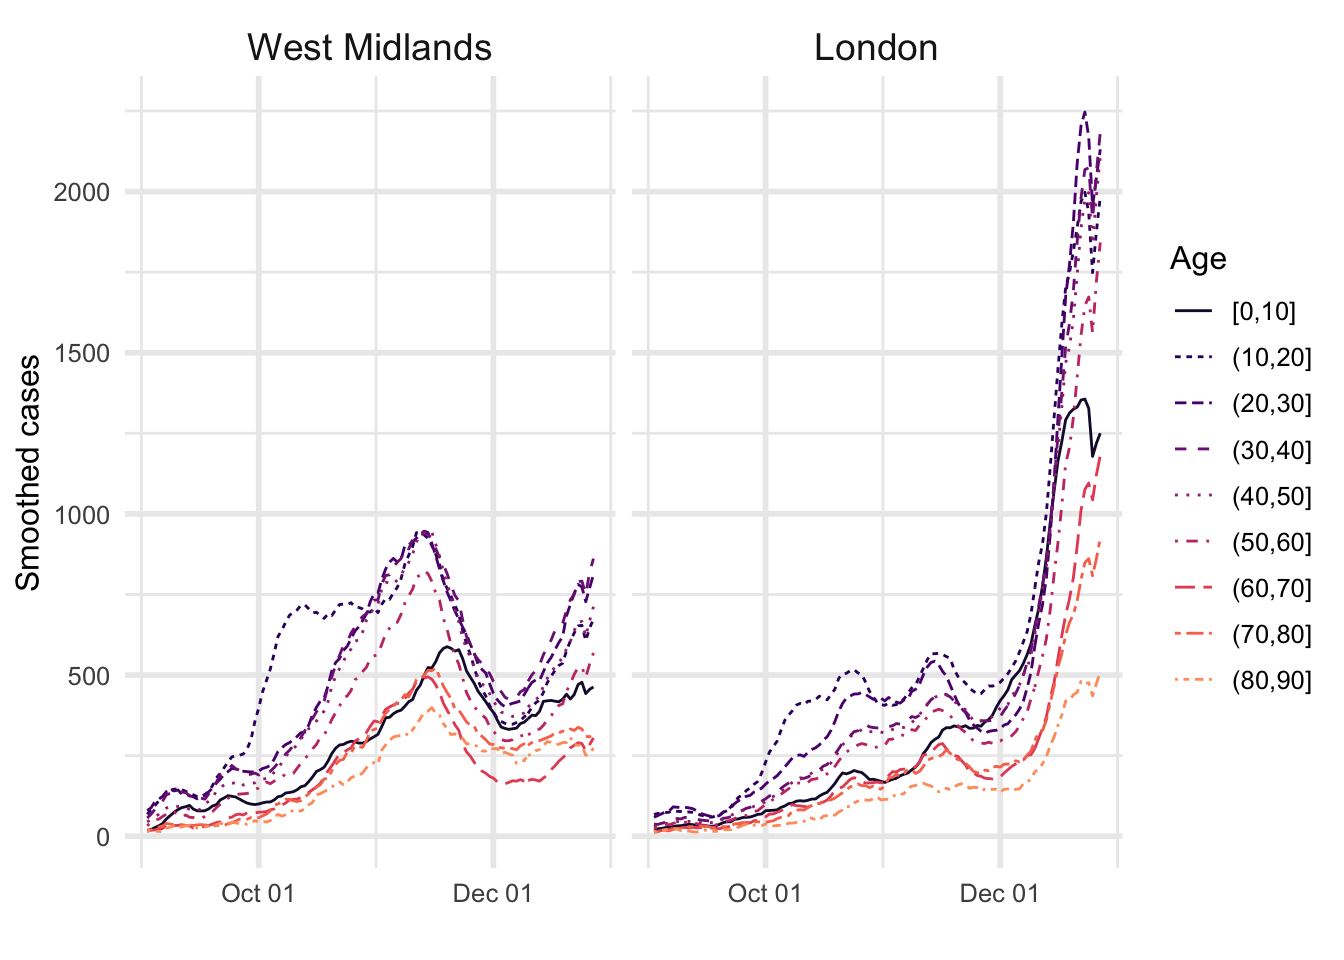
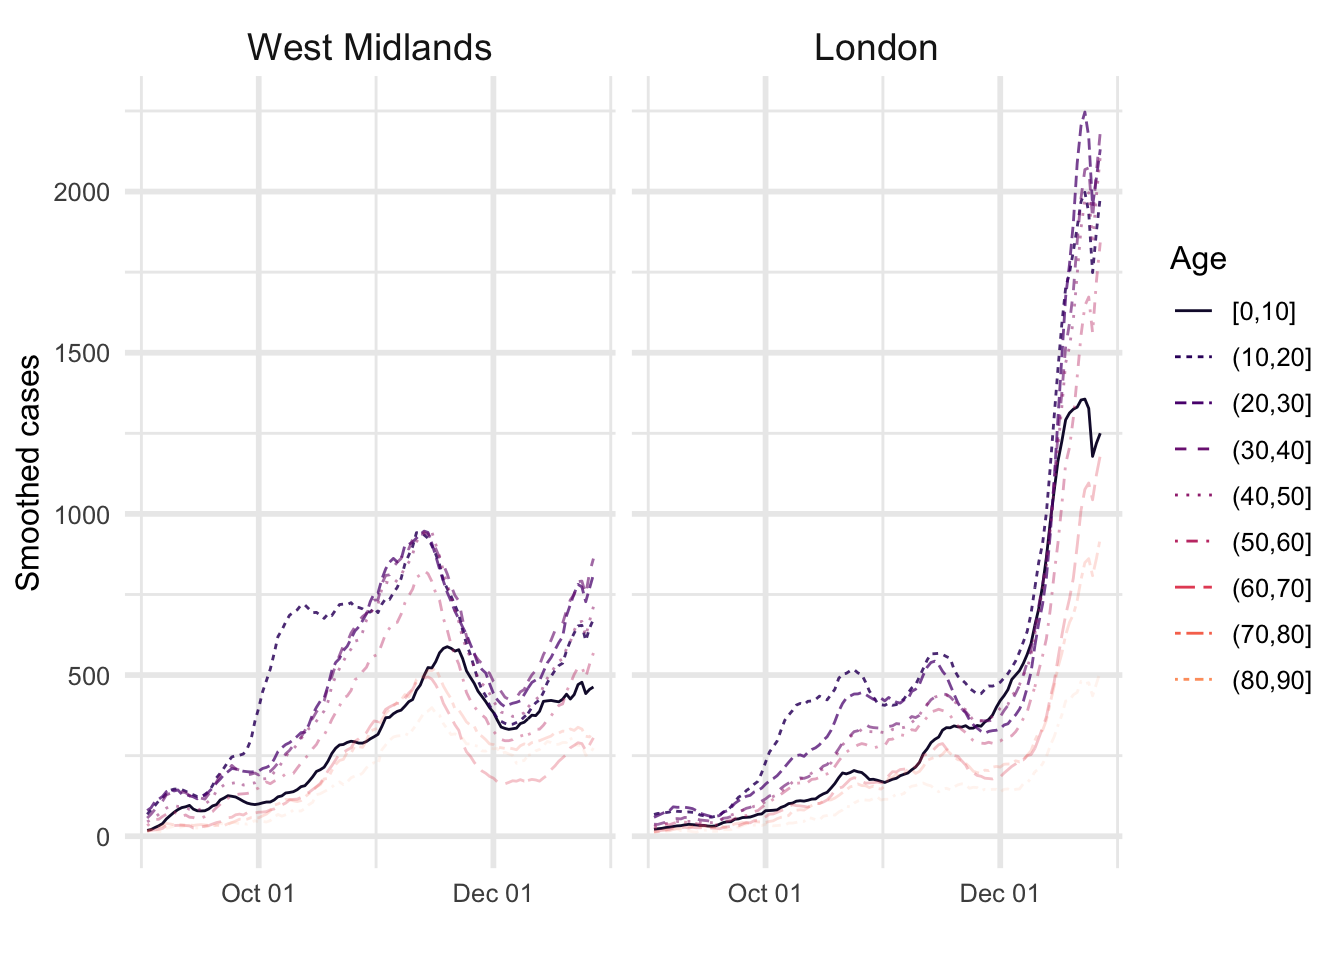
using alpha to help with colorblindness

diff --git a/_posts/2021-01-01-did-the-new-variant-of-covid-spread-through-schools/did-the-new-variant-of-covid-spread-through-schools.html b/_posts/2021-01-01-did-the-new-variant-of-covid-spread-through-schools/did-the-new-variant-of-covid-spread-through-schools.html
@@ -1612,55 +1612,52 @@ Note that this graph is an example of <a href="https://en.wikipedia.org/wiki/Eco
 </div>
 <p>For case data by age and region:</p>
 <div class="layout-chunk" data-layout="l-body">
-<div class="sourceCode">
-<pre><code><span class='va'>covid_specimens</span> <span class='op'>&lt;-</span> <span class='fu'>read_csv</span><span class='op'>(</span><span class='st'>"download the giant file and put it here"</span><span class='op'>)</span>
-<span class='va'>covid_spec_age</span> <span class='op'>&lt;-</span> <span class='va'>covid_specimens</span> <span class='op'>%&gt;%</span>
-  <span class='fu'><a href='https://rdrr.io/r/stats/filter.html'>filter</a></span><span class='op'>(</span><span class='va'>areaType</span> <span class='op'>%in%</span> <span class='fu'><a href='https://rdrr.io/r/base/c.html'>c</a></span><span class='op'>(</span><span class='st'>"region"</span>, <span class='st'>"utla"</span><span class='op'>)</span>,
-         <span class='va'>date</span> <span class='op'>&gt;</span> <span class='st'>"2020-09-01"</span>,
-         <span class='va'>age</span> <span class='op'>%in%</span>  <span class='fu'><a href='https://rdrr.io/r/base/c.html'>c</a></span><span class='op'>(</span>
-           <span class='st'>"0_4"</span>,
-           <span class='st'>"5_9"</span>,
-           <span class='st'>"10_14"</span>,
-           <span class='st'>"15_19"</span>,
-           <span class='st'>"20_24"</span>,
-           <span class='st'>"25_29"</span>,
-           <span class='st'>"30_34"</span>,
-           <span class='st'>"35_39"</span>,
-           <span class='st'>"40_44"</span>,
-           <span class='st'>"45_49"</span>,
-           <span class='st'>"50_54"</span>,
-           <span class='st'>"55_59"</span>,
-           <span class='st'>"60_64"</span>,
-           <span class='st'>"65_69"</span>,
-           <span class='st'>"70_74"</span>,
-           <span class='st'>"75_79"</span>,
-           <span class='st'>"80_84"</span>,
-           <span class='st'>"85_89"</span><span class='op'>)</span><span class='op'>)</span>
-
-<span class='co'># uncomment to free up memory</span>
-<span class='co'>#rm(covid_specimens)</span>
-
-<span class='va'>covid_age</span> <span class='op'>&lt;-</span> <span class='va'>covid_spec_age</span> <span class='op'>%&gt;%</span>
-  <span class='fu'>separate</span><span class='op'>(</span>col <span class='op'>=</span> <span class='va'>age</span>, sep <span class='op'>=</span> <span class='st'>"_"</span>,
-           into <span class='op'>=</span> <span class='fu'><a href='https://rdrr.io/r/base/c.html'>c</a></span><span class='op'>(</span><span class='st'>"agel"</span>, <span class='st'>"ageu"</span><span class='op'>)</span><span class='op'>)</span> <span class='op'>%&gt;%</span>
-  <span class='fu'>mutate</span><span class='op'>(</span>agel <span class='op'>=</span> <span class='fu'><a href='https://rdrr.io/r/base/numeric.html'>as.numeric</a></span><span class='op'>(</span><span class='va'>agel</span><span class='op'>)</span>,
-         ageu <span class='op'>=</span> <span class='fu'><a href='https://rdrr.io/r/base/numeric.html'>as.numeric</a></span><span class='op'>(</span><span class='va'>ageu</span><span class='op'>)</span>,
-         Age <span class='op'>=</span> <span class='fu'>cut_interval</span><span class='op'>(</span><span class='va'>agel</span>, length <span class='op'>=</span> <span class='fl'>10</span><span class='op'>)</span>
-         <span class='op'>)</span> <span class='op'>%&gt;%</span>
-  <span class='fu'>group_by</span><span class='op'>(</span><span class='va'>areaType</span>, <span class='va'>areaName</span>, <span class='va'>date</span>, <span class='va'>Age</span><span class='op'>)</span> <span class='op'>%&gt;%</span>
-  <span class='fu'>summarize</span><span class='op'>(</span>smoothed_cases <span class='op'>=</span> <span class='fu'><a href='https://rdrr.io/r/base/sum.html'>sum</a></span><span class='op'>(</span><span class='va'>newCasesBySpecimenDateRollingRate</span><span class='op'>)</span><span class='op'>)</span>
-
-<span class='co'>#omg the name is too long</span>
-<span class='va'>covid_age</span><span class='op'>$</span><span class='va'>areaName</span><span class='op'>[</span><span class='va'>covid_age</span><span class='op'>$</span><span class='va'>areaName</span> <span class='op'>==</span>
-            <span class='st'>"Yorkshire and The Humber"</span><span class='op'>]</span> <span class='op'>&lt;-</span> <span class='st'>"Yorkshire&amp;Humber"</span>
-
-<span class='va'>covid_age</span> <span class='op'>%&gt;%</span>
-  <span class='fu'><a href='https://rdrr.io/r/stats/filter.html'>filter</a></span><span class='op'>(</span><span class='va'>areaType</span> <span class='op'>==</span> <span class='st'>"region"</span><span class='op'>)</span> <span class='op'>%&gt;%</span>
-  <span class='fu'>select</span><span class='op'>(</span><span class='va'>areaName</span>, <span class='va'>date</span>, <span class='va'>Age</span>, <span class='va'>smoothed_cases</span><span class='op'>)</span> <span class='op'>%&gt;%</span>
-  <span class='fu'>drop_na</span><span class='op'>(</span><span class='op'>)</span> <span class='op'>%&gt;%</span>
-  <span class='fu'>ggplot</span><span class='op'>(</span><span class='va'>etc</span><span class='op'>)</span>
-</code></pre>
-</div>
+<div class="sourceCode" id="cb2"><pre class="sourceCode r"><code class="sourceCode r"><span id="cb2-1"><a href="#cb2-1"></a>covid_specimens &lt;-<span class="st"> </span><span class="kw">read_csv</span>(<span class="st">&quot;download the giant file and put it here&quot;</span>)</span>
+<span id="cb2-2"><a href="#cb2-2"></a>covid_spec_age &lt;-<span class="st"> </span>covid_specimens <span class="op">%&gt;%</span></span>
+<span id="cb2-3"><a href="#cb2-3"></a><span class="st">  </span><span class="kw">filter</span>(areaType <span class="op">%in%</span><span class="st"> </span><span class="kw">c</span>(<span class="st">&quot;region&quot;</span>, <span class="st">&quot;utla&quot;</span>),</span>
+<span id="cb2-4"><a href="#cb2-4"></a>         date <span class="op">&gt;</span><span class="st"> &quot;2020-09-01&quot;</span>,</span>
+<span id="cb2-5"><a href="#cb2-5"></a>         age <span class="op">%in%</span><span class="st">  </span><span class="kw">c</span>(</span>
+<span id="cb2-6"><a href="#cb2-6"></a>           <span class="st">&quot;0_4&quot;</span>,</span>
+<span id="cb2-7"><a href="#cb2-7"></a>           <span class="st">&quot;5_9&quot;</span>,</span>
+<span id="cb2-8"><a href="#cb2-8"></a>           <span class="st">&quot;10_14&quot;</span>,</span>
+<span id="cb2-9"><a href="#cb2-9"></a>           <span class="st">&quot;15_19&quot;</span>,</span>
+<span id="cb2-10"><a href="#cb2-10"></a>           <span class="st">&quot;20_24&quot;</span>,</span>
+<span id="cb2-11"><a href="#cb2-11"></a>           <span class="st">&quot;25_29&quot;</span>,</span>
+<span id="cb2-12"><a href="#cb2-12"></a>           <span class="st">&quot;30_34&quot;</span>,</span>
+<span id="cb2-13"><a href="#cb2-13"></a>           <span class="st">&quot;35_39&quot;</span>,</span>
+<span id="cb2-14"><a href="#cb2-14"></a>           <span class="st">&quot;40_44&quot;</span>,</span>
+<span id="cb2-15"><a href="#cb2-15"></a>           <span class="st">&quot;45_49&quot;</span>,</span>
+<span id="cb2-16"><a href="#cb2-16"></a>           <span class="st">&quot;50_54&quot;</span>,</span>
+<span id="cb2-17"><a href="#cb2-17"></a>           <span class="st">&quot;55_59&quot;</span>,</span>
+<span id="cb2-18"><a href="#cb2-18"></a>           <span class="st">&quot;60_64&quot;</span>,</span>
+<span id="cb2-19"><a href="#cb2-19"></a>           <span class="st">&quot;65_69&quot;</span>,</span>
+<span id="cb2-20"><a href="#cb2-20"></a>           <span class="st">&quot;70_74&quot;</span>,</span>
+<span id="cb2-21"><a href="#cb2-21"></a>           <span class="st">&quot;75_79&quot;</span>,</span>
+<span id="cb2-22"><a href="#cb2-22"></a>           <span class="st">&quot;80_84&quot;</span>,</span>
+<span id="cb2-23"><a href="#cb2-23"></a>           <span class="st">&quot;85_89&quot;</span>))</span>
+<span id="cb2-24"><a href="#cb2-24"></a></span>
+<span id="cb2-25"><a href="#cb2-25"></a><span class="co"># uncomment to free up memory</span></span>
+<span id="cb2-26"><a href="#cb2-26"></a><span class="co">#rm(covid_specimens)</span></span>
+<span id="cb2-27"><a href="#cb2-27"></a></span>
+<span id="cb2-28"><a href="#cb2-28"></a>covid_age &lt;-<span class="st"> </span>covid_spec_age <span class="op">%&gt;%</span></span>
+<span id="cb2-29"><a href="#cb2-29"></a><span class="st">  </span><span class="kw">separate</span>(<span class="dt">col =</span> age, <span class="dt">sep =</span> <span class="st">&quot;_&quot;</span>,</span>
+<span id="cb2-30"><a href="#cb2-30"></a>           <span class="dt">into =</span> <span class="kw">c</span>(<span class="st">&quot;agel&quot;</span>, <span class="st">&quot;ageu&quot;</span>)) <span class="op">%&gt;%</span></span>
+<span id="cb2-31"><a href="#cb2-31"></a><span class="st">  </span><span class="kw">mutate</span>(<span class="dt">agel =</span> <span class="kw">as.numeric</span>(agel),</span>
+<span id="cb2-32"><a href="#cb2-32"></a>         <span class="dt">ageu =</span> <span class="kw">as.numeric</span>(ageu),</span>
+<span id="cb2-33"><a href="#cb2-33"></a>         <span class="dt">Age =</span> <span class="kw">cut_interval</span>(agel, <span class="dt">length =</span> <span class="dv">10</span>)]</span>
+<span id="cb2-34"><a href="#cb2-34"></a>         ) <span class="op">%&gt;%</span></span>
+<span id="cb2-35"><a href="#cb2-35"></a><span class="st">  </span><span class="kw">group_by</span>(areaType, areaName, date, Age) <span class="op">%&gt;%</span></span>
+<span id="cb2-36"><a href="#cb2-36"></a><span class="st">  </span><span class="kw">summarize</span>(<span class="dt">smoothed_cases =</span> <span class="kw">sum</span>(newCasesBySpecimenDateRollingRate))</span>
+<span id="cb2-37"><a href="#cb2-37"></a></span>
+<span id="cb2-38"><a href="#cb2-38"></a><span class="co">#omg the name is too long</span></span>
+<span id="cb2-39"><a href="#cb2-39"></a>covid_age<span class="op">$</span>areaName[covid_age<span class="op">$</span>areaName <span class="op">==</span></span>
+<span id="cb2-40"><a href="#cb2-40"></a><span class="st">            &quot;Yorkshire and The Humber&quot;</span>] &lt;-<span class="st"> &quot;Yorkshire&amp;Humber&quot;</span></span>
+<span id="cb2-41"><a href="#cb2-41"></a></span>
+<span id="cb2-42"><a href="#cb2-42"></a>covid_age <span class="op">%&gt;%</span></span>
+<span id="cb2-43"><a href="#cb2-43"></a><span class="st">  </span><span class="kw">filter</span>(areaType <span class="op">==</span><span class="st"> &quot;region&quot;</span>) <span class="op">%&gt;%</span></span>
+<span id="cb2-44"><a href="#cb2-44"></a><span class="st">  </span><span class="kw">select</span>(areaName, date, Age, smoothed_cases) <span class="op">%&gt;%</span></span>
+<span id="cb2-45"><a href="#cb2-45"></a><span class="st">  </span><span class="kw">drop_na</span>() <span class="op">%&gt;%</span></span>
+<span id="cb2-46"><a href="#cb2-46"></a><span class="st">  </span><span class="kw">ggplot</span>(etc)</span></code></pre></div>
 </div>
 <p>Finally, for anyone curious for more of the details involved in the age odds ratios calculation this is the caption for Figure 4 in that paper:</p>
 <blockquote>
@@ -1675,7 +1672,7 @@ Note that this graph is an example of <a href="https://en.wikipedia.org/wiki/Eco
 <div class="layout-chunk" data-layout="l-body">
 
 </div>
-<div class="sourceCode" id="cb2"><pre class="sourceCode r distill-force-highlighting-css"><code class="sourceCode r"></code></pre></div>
+<div class="sourceCode" id="cb3"><pre class="sourceCode r distill-force-highlighting-css"><code class="sourceCode r"></code></pre></div>
 <section class="footnotes" role="doc-endnotes">
 <hr />
 <ol>

diff --git a/docs/posts/2021-01-01-did-the-new-variant-of-covid-spread-through-schools/index.html b/docs/posts/2021-01-01-did-the-new-variant-of-covid-spread-through-schools/index.html
@@ -2551,55 +2551,52 @@ Note that this graph is an example of <a href="https://en.wikipedia.org/wiki/Eco
 </div>
 <p>For case data by age and region:</p>
 <div class="layout-chunk" data-layout="l-body">
-<div class="sourceCode">
-<pre><code><span class='va'>covid_specimens</span> <span class='op'>&lt;-</span> <span class='fu'>read_csv</span><span class='op'>(</span><span class='st'>"download the giant file and put it here"</span><span class='op'>)</span>
-<span class='va'>covid_spec_age</span> <span class='op'>&lt;-</span> <span class='va'>covid_specimens</span> <span class='op'>%&gt;%</span>
-  <span class='fu'><a href='https://rdrr.io/r/stats/filter.html'>filter</a></span><span class='op'>(</span><span class='va'>areaType</span> <span class='op'>%in%</span> <span class='fu'><a href='https://rdrr.io/r/base/c.html'>c</a></span><span class='op'>(</span><span class='st'>"region"</span>, <span class='st'>"utla"</span><span class='op'>)</span>,
-         <span class='va'>date</span> <span class='op'>&gt;</span> <span class='st'>"2020-09-01"</span>,
-         <span class='va'>age</span> <span class='op'>%in%</span>  <span class='fu'><a href='https://rdrr.io/r/base/c.html'>c</a></span><span class='op'>(</span>
-           <span class='st'>"0_4"</span>,
-           <span class='st'>"5_9"</span>,
-           <span class='st'>"10_14"</span>,
-           <span class='st'>"15_19"</span>,
-           <span class='st'>"20_24"</span>,
-           <span class='st'>"25_29"</span>,
-           <span class='st'>"30_34"</span>,
-           <span class='st'>"35_39"</span>,
-           <span class='st'>"40_44"</span>,
-           <span class='st'>"45_49"</span>,
-           <span class='st'>"50_54"</span>,
-           <span class='st'>"55_59"</span>,
-           <span class='st'>"60_64"</span>,
-           <span class='st'>"65_69"</span>,
-           <span class='st'>"70_74"</span>,
-           <span class='st'>"75_79"</span>,
-           <span class='st'>"80_84"</span>,
-           <span class='st'>"85_89"</span><span class='op'>)</span><span class='op'>)</span>
-
-<span class='co'># uncomment to free up memory</span>
-<span class='co'>#rm(covid_specimens)</span>
-
-<span class='va'>covid_age</span> <span class='op'>&lt;-</span> <span class='va'>covid_spec_age</span> <span class='op'>%&gt;%</span>
-  <span class='fu'>separate</span><span class='op'>(</span>col <span class='op'>=</span> <span class='va'>age</span>, sep <span class='op'>=</span> <span class='st'>"_"</span>,
-           into <span class='op'>=</span> <span class='fu'><a href='https://rdrr.io/r/base/c.html'>c</a></span><span class='op'>(</span><span class='st'>"agel"</span>, <span class='st'>"ageu"</span><span class='op'>)</span><span class='op'>)</span> <span class='op'>%&gt;%</span>
-  <span class='fu'>mutate</span><span class='op'>(</span>agel <span class='op'>=</span> <span class='fu'><a href='https://rdrr.io/r/base/numeric.html'>as.numeric</a></span><span class='op'>(</span><span class='va'>agel</span><span class='op'>)</span>,
-         ageu <span class='op'>=</span> <span class='fu'><a href='https://rdrr.io/r/base/numeric.html'>as.numeric</a></span><span class='op'>(</span><span class='va'>ageu</span><span class='op'>)</span>,
-         Age <span class='op'>=</span> <span class='fu'>cut_interval</span><span class='op'>(</span><span class='va'>agel</span>, length <span class='op'>=</span> <span class='fl'>10</span><span class='op'>)</span>
-         <span class='op'>)</span> <span class='op'>%&gt;%</span>
-  <span class='fu'>group_by</span><span class='op'>(</span><span class='va'>areaType</span>, <span class='va'>areaName</span>, <span class='va'>date</span>, <span class='va'>Age</span><span class='op'>)</span> <span class='op'>%&gt;%</span>
-  <span class='fu'>summarize</span><span class='op'>(</span>smoothed_cases <span class='op'>=</span> <span class='fu'><a href='https://rdrr.io/r/base/sum.html'>sum</a></span><span class='op'>(</span><span class='va'>newCasesBySpecimenDateRollingRate</span><span class='op'>)</span><span class='op'>)</span>
-
-<span class='co'>#omg the name is too long</span>
-<span class='va'>covid_age</span><span class='op'>$</span><span class='va'>areaName</span><span class='op'>[</span><span class='va'>covid_age</span><span class='op'>$</span><span class='va'>areaName</span> <span class='op'>==</span>
-            <span class='st'>"Yorkshire and The Humber"</span><span class='op'>]</span> <span class='op'>&lt;-</span> <span class='st'>"Yorkshire&amp;Humber"</span>
-
-<span class='va'>covid_age</span> <span class='op'>%&gt;%</span>
-  <span class='fu'><a href='https://rdrr.io/r/stats/filter.html'>filter</a></span><span class='op'>(</span><span class='va'>areaType</span> <span class='op'>==</span> <span class='st'>"region"</span><span class='op'>)</span> <span class='op'>%&gt;%</span>
-  <span class='fu'>select</span><span class='op'>(</span><span class='va'>areaName</span>, <span class='va'>date</span>, <span class='va'>Age</span>, <span class='va'>smoothed_cases</span><span class='op'>)</span> <span class='op'>%&gt;%</span>
-  <span class='fu'>drop_na</span><span class='op'>(</span><span class='op'>)</span> <span class='op'>%&gt;%</span>
-  <span class='fu'>ggplot</span><span class='op'>(</span><span class='va'>etc</span><span class='op'>)</span>
-</code></pre>
-</div>
+<div class="sourceCode" id="cb2"><pre class="sourceCode r"><code class="sourceCode r"><span id="cb2-1"><a href="#cb2-1"></a>covid_specimens &lt;-<span class="st"> </span><span class="kw">read_csv</span>(<span class="st">&quot;download the giant file and put it here&quot;</span>)</span>
+<span id="cb2-2"><a href="#cb2-2"></a>covid_spec_age &lt;-<span class="st"> </span>covid_specimens <span class="op">%&gt;%</span></span>
+<span id="cb2-3"><a href="#cb2-3"></a><span class="st">  </span><span class="kw">filter</span>(areaType <span class="op">%in%</span><span class="st"> </span><span class="kw">c</span>(<span class="st">&quot;region&quot;</span>, <span class="st">&quot;utla&quot;</span>),</span>
+<span id="cb2-4"><a href="#cb2-4"></a>         date <span class="op">&gt;</span><span class="st"> &quot;2020-09-01&quot;</span>,</span>
+<span id="cb2-5"><a href="#cb2-5"></a>         age <span class="op">%in%</span><span class="st">  </span><span class="kw">c</span>(</span>
+<span id="cb2-6"><a href="#cb2-6"></a>           <span class="st">&quot;0_4&quot;</span>,</span>
+<span id="cb2-7"><a href="#cb2-7"></a>           <span class="st">&quot;5_9&quot;</span>,</span>
+<span id="cb2-8"><a href="#cb2-8"></a>           <span class="st">&quot;10_14&quot;</span>,</span>
+<span id="cb2-9"><a href="#cb2-9"></a>           <span class="st">&quot;15_19&quot;</span>,</span>
+<span id="cb2-10"><a href="#cb2-10"></a>           <span class="st">&quot;20_24&quot;</span>,</span>
+<span id="cb2-11"><a href="#cb2-11"></a>           <span class="st">&quot;25_29&quot;</span>,</span>
+<span id="cb2-12"><a href="#cb2-12"></a>           <span class="st">&quot;30_34&quot;</span>,</span>
+<span id="cb2-13"><a href="#cb2-13"></a>           <span class="st">&quot;35_39&quot;</span>,</span>
+<span id="cb2-14"><a href="#cb2-14"></a>           <span class="st">&quot;40_44&quot;</span>,</span>
+<span id="cb2-15"><a href="#cb2-15"></a>           <span class="st">&quot;45_49&quot;</span>,</span>
+<span id="cb2-16"><a href="#cb2-16"></a>           <span class="st">&quot;50_54&quot;</span>,</span>
+<span id="cb2-17"><a href="#cb2-17"></a>           <span class="st">&quot;55_59&quot;</span>,</span>
+<span id="cb2-18"><a href="#cb2-18"></a>           <span class="st">&quot;60_64&quot;</span>,</span>
+<span id="cb2-19"><a href="#cb2-19"></a>           <span class="st">&quot;65_69&quot;</span>,</span>
+<span id="cb2-20"><a href="#cb2-20"></a>           <span class="st">&quot;70_74&quot;</span>,</span>
+<span id="cb2-21"><a href="#cb2-21"></a>           <span class="st">&quot;75_79&quot;</span>,</span>
+<span id="cb2-22"><a href="#cb2-22"></a>           <span class="st">&quot;80_84&quot;</span>,</span>
+<span id="cb2-23"><a href="#cb2-23"></a>           <span class="st">&quot;85_89&quot;</span>))</span>
+<span id="cb2-24"><a href="#cb2-24"></a></span>
+<span id="cb2-25"><a href="#cb2-25"></a><span class="co"># uncomment to free up memory</span></span>
+<span id="cb2-26"><a href="#cb2-26"></a><span class="co">#rm(covid_specimens)</span></span>
+<span id="cb2-27"><a href="#cb2-27"></a></span>
+<span id="cb2-28"><a href="#cb2-28"></a>covid_age &lt;-<span class="st"> </span>covid_spec_age <span class="op">%&gt;%</span></span>
+<span id="cb2-29"><a href="#cb2-29"></a><span class="st">  </span><span class="kw">separate</span>(<span class="dt">col =</span> age, <span class="dt">sep =</span> <span class="st">&quot;_&quot;</span>,</span>
+<span id="cb2-30"><a href="#cb2-30"></a>           <span class="dt">into =</span> <span class="kw">c</span>(<span class="st">&quot;agel&quot;</span>, <span class="st">&quot;ageu&quot;</span>)) <span class="op">%&gt;%</span></span>
+<span id="cb2-31"><a href="#cb2-31"></a><span class="st">  </span><span class="kw">mutate</span>(<span class="dt">agel =</span> <span class="kw">as.numeric</span>(agel),</span>
+<span id="cb2-32"><a href="#cb2-32"></a>         <span class="dt">ageu =</span> <span class="kw">as.numeric</span>(ageu),</span>
+<span id="cb2-33"><a href="#cb2-33"></a>         <span class="dt">Age =</span> <span class="kw">cut_interval</span>(agel, <span class="dt">length =</span> <span class="dv">10</span>)]</span>
+<span id="cb2-34"><a href="#cb2-34"></a>         ) <span class="op">%&gt;%</span></span>
+<span id="cb2-35"><a href="#cb2-35"></a><span class="st">  </span><span class="kw">group_by</span>(areaType, areaName, date, Age) <span class="op">%&gt;%</span></span>
+<span id="cb2-36"><a href="#cb2-36"></a><span class="st">  </span><span class="kw">summarize</span>(<span class="dt">smoothed_cases =</span> <span class="kw">sum</span>(newCasesBySpecimenDateRollingRate))</span>
+<span id="cb2-37"><a href="#cb2-37"></a></span>
+<span id="cb2-38"><a href="#cb2-38"></a><span class="co">#omg the name is too long</span></span>
+<span id="cb2-39"><a href="#cb2-39"></a>covid_age<span class="op">$</span>areaName[covid_age<span class="op">$</span>areaName <span class="op">==</span></span>
+<span id="cb2-40"><a href="#cb2-40"></a><span class="st">            &quot;Yorkshire and The Humber&quot;</span>] &lt;-<span class="st"> &quot;Yorkshire&amp;Humber&quot;</span></span>
+<span id="cb2-41"><a href="#cb2-41"></a></span>
+<span id="cb2-42"><a href="#cb2-42"></a>covid_age <span class="op">%&gt;%</span></span>
+<span id="cb2-43"><a href="#cb2-43"></a><span class="st">  </span><span class="kw">filter</span>(areaType <span class="op">==</span><span class="st"> &quot;region&quot;</span>) <span class="op">%&gt;%</span></span>
+<span id="cb2-44"><a href="#cb2-44"></a><span class="st">  </span><span class="kw">select</span>(areaName, date, Age, smoothed_cases) <span class="op">%&gt;%</span></span>
+<span id="cb2-45"><a href="#cb2-45"></a><span class="st">  </span><span class="kw">drop_na</span>() <span class="op">%&gt;%</span></span>
+<span id="cb2-46"><a href="#cb2-46"></a><span class="st">  </span><span class="kw">ggplot</span>(etc)</span></code></pre></div>
 </div>
 <p>Finally, for anyone curious for more of the details involved in the age odds ratios calculation this is the caption for Figure 4 in that paper:</p>
 <blockquote>
@@ -2614,7 +2611,7 @@ Note that this graph is an example of <a href="https://en.wikipedia.org/wiki/Eco
 <div class="layout-chunk" data-layout="l-body">
 
 </div>
-<div class="sourceCode" id="cb2"><pre class="sourceCode r distill-force-highlighting-css"><code class="sourceCode r"></code></pre></div>
+<div class="sourceCode" id="cb3"><pre class="sourceCode r distill-force-highlighting-css"><code class="sourceCode r"></code></pre></div>
 <section class="footnotes" role="doc-endnotes">
 <hr />
 <ol>
